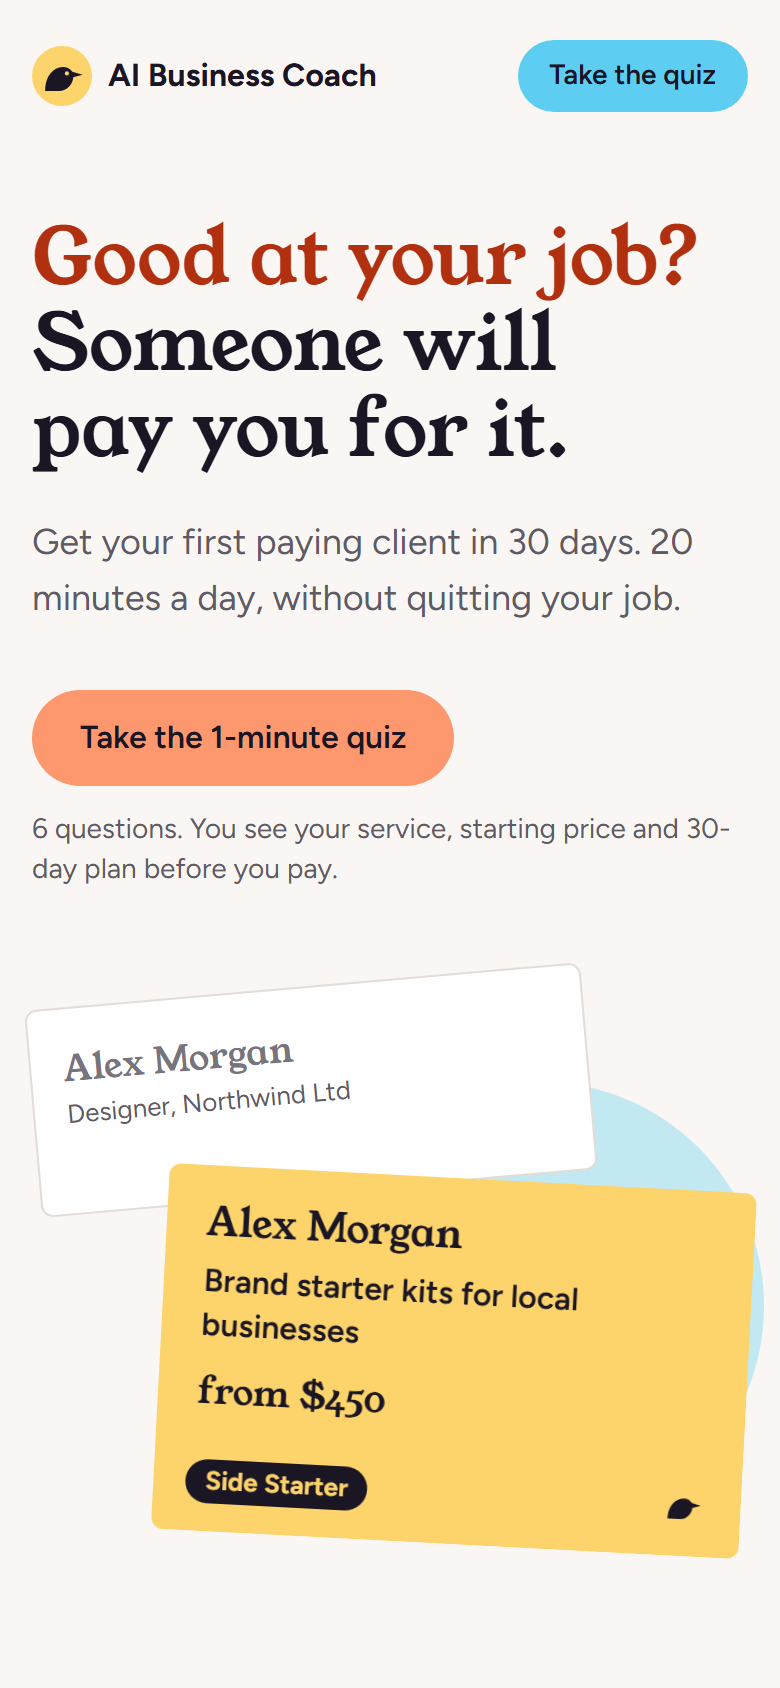
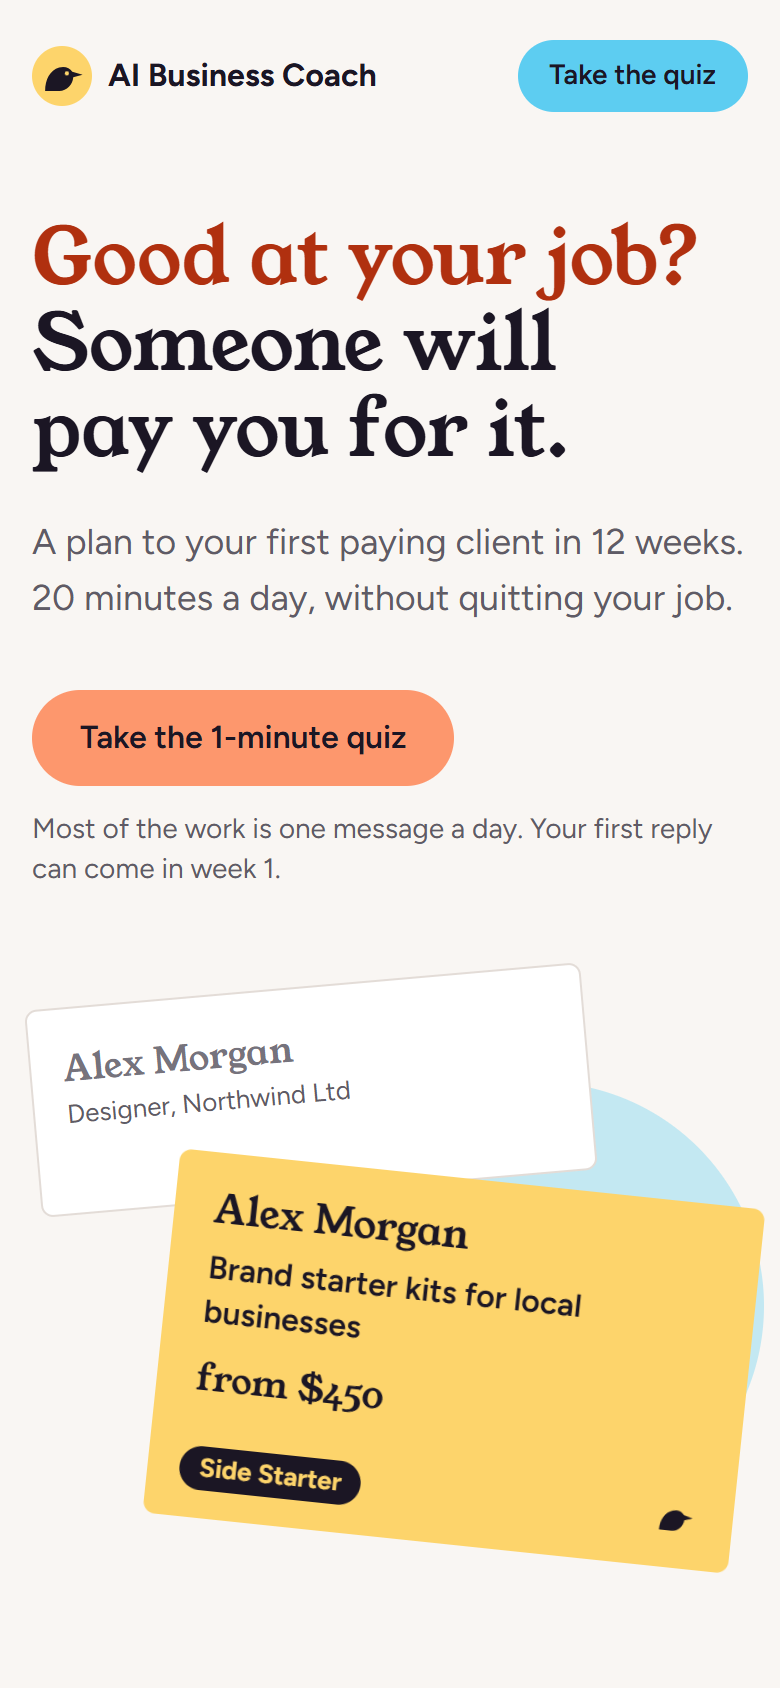
Rebuild README for the 12-week product and retake screenshots

diff --git a/README.md b/README.md
@@ -1,55 +1,68 @@
 # AI Business Coach
 
-An AI coach that takes someone who is good at their job to a first paying client of their own side service in 30 days, 20 minutes a day, without quitting.
+**Good at your job? Someone will pay you for it.**
+
+An AI coach that takes an employed professional from a skill they use at work to a first paying client of their own side service. It is a 12-week plan, built on 20 minutes a day and one message a day, without quitting your job.
 
 Built by Team 4 (Jandos, Temirlan) for the Zimran IT School capstone.
+
+<p align="center">
+  <img src="docs/screenshots/01-landing.png" width="220" alt="Landing page: Good at your job? Someone will pay you for it, with a business card for Alex Morgan, Side Starter" />
+  <img src="docs/screenshots/05-app-today.png" width="220" alt="Today screen: Client #1 card, the pipeline, and a reply from Daniel with a draft written by Hugin" />
+  <img src="docs/screenshots/06-people.png" width="220" alt="People tab: five contacts grouped by stage, from On your list to Replied" />
+</p>
 
 ## Live links
 
 - **Landing page:** https://ai-business-coach-blush.vercel.app
 - **Product (start with the quiz):** https://ai-business-coach-blush.vercel.app/quiz
-- **Demo mode:** https://ai-business-coach-blush.vercel.app/quiz?demo=1 adds a screen map to the quiz and day controls to the app, so you can see a week of progress in a minute.
+- **Demo mode:** https://ai-business-coach-blush.vercel.app/quiz?demo=1 adds a screen map to the quiz and demo controls to the app, so you can see a week of progress in a minute.
 
 ## What it does
 
-1. **Quiz (`/quiz`):** six questions about your skill, experience, goal, time and main blocker. You get a personal plan before you pay: a service to sell, a starting price, your first buyers and a four-week map.
-2. **Paywall and checkout:** three plans with 50% off the first period, a billing timeline, and an auto-renewal checkbox that is never pre-ticked. Checkout is simulated.
-3. **The app (`/app`):** one quest a day, sized to your time. Quests and real results earn XP, grow six stats and change your title, from Employee to Consultant. Each week ends with a boss: a real result such as a first reply or a first paying client.
-4. **Hugin, the coach:** a raven with a dry sense of humour. He drafts your messages and proposals, checks proof screenshots and answers questions in a chat.
+1. **Quiz (`/quiz`):** six questions about your skill, experience, goal, time and main blocker. You get a personal plan before you pay: a service to sell, a starting price, your first buyers and your milestones to a first client.
+2. **Paywall and checkout:** 4, 12 and 24-week plans with 50% off the first period, a billing timeline, and an auto-renewal checkbox that is never pre-ticked. The full renewal price is shown before Pay. Checkout is simulated.
+3. **The app (`/app`):**
+   - **Today:** one step a day, sized to a few minutes. On day 1 you write your offer and add five people. After that, each day is one message, one reply or one follow-up.
+   - **People:** your warm list, grouped by stage: listed, messaged, replied, call booked, paid.
+   - **Progress:** your title, milestones (first reply, first call, first proposal, first client), streak and nine short lessons that unlock when your real progress needs them.
+4. **Hugin, the coach:** a raven with a dry sense of humour. He writes the message for one named person, drafts your replies and answers questions. Titles and streaks follow real events such as a first reply or a first paid client, not tapping through screens.
 
 ## Screenshots
 
-| Landing | Personal plan | Paywall |
-| --- | --- | --- |
-| ![Landing page hero with the old work card and the new sunshine business card](docs/screenshots/01-landing.png) | ![Personal plan: your service and price on a business card, first buyers and the four weeks](docs/screenshots/02-plan.png) | ![Paywall with three plans, billing timeline and unticked renewal consent](docs/screenshots/03-paywall.png) |
-
-| Today, day 8 | Drafts from Hugin |
+| Plan | Paywall |
 | --- | --- |
-| ![Your card with service, price, title and level, then XP, six stats and today's quest](docs/screenshots/04-app-today.png) | ![Three outreach messages drafted by Hugin, each with a Copy button](docs/screenshots/05-hugin-drafts.png) |
+| ![Personal plan: first paying client by a date, your service and price on a business card, first buyers and four milestones](docs/screenshots/02-plan.png) | ![Paywall with three plans, billing timeline and an unticked renewal consent](docs/screenshots/03-paywall.png) |
+
+| Day 1 | Today | Progress |
+| --- | --- | --- |
+| ![Day 1: write your offer and add five people, each with a relation chip](docs/screenshots/04-app-day1.png) | ![Today: Client #1 card, the pipeline and a reply from Daniel with a draft from Hugin](docs/screenshots/05-app-today.png) | ![Progress: title Side Starter, milestones, streak and the course](docs/screenshots/07-progress.png) |
+
+Screenshots are 390x844 at 2x, taken from the app in demo mode.
 
 ## Tech stack
 
 - **Framework:** Next.js 16 (App Router) with React 19 and TypeScript
 - **Styling:** Tailwind CSS 4 with design tokens in `src/app/globals.css`, light and dark themes
 - **AI:** Google Gemini through the `@google/genai` SDK, called only from server route handlers
-- **Animation:** React `<ViewTransition>` for screen changes, growth notifications and sheets; turned off under reduced motion
-- **Tests:** Vitest, 66 tests for pricing, the game rules, quests, tools and Hugin's input handling
+- **Animation:** React `<ViewTransition>` for screen changes and sheets, turned off under reduced motion
+- **Tests:** Vitest, 149 tests for pricing, the game rules, the next-step logic, contacts, the lessons and Hugin's input handling
 - **Hosting:** Vercel
 
 ## How the Gemini parts work
 
 Three API routes call Gemini. The API key stays on the server and never reaches the browser.
 
-| Route | What it does | Model |
-| --- | --- | --- |
-| `POST /api/draft` | Writes three offer, outreach, follow-up or proposal drafts for today's quest, returned as JSON | `gemini-3.5-flash-lite` |
-| `POST /api/verify` | Checks whether a proof screenshot shows the claimed result (a reply, a booking, a payment) and answers in Hugin's voice | `gemini-3.6-flash` |
-| `POST /api/chat` | A streamed chat with Hugin | `gemini-3.5-flash-lite` |
+| Route | What it does | Main model | Backup |
+| --- | --- | --- | --- |
+| `POST /api/draft` | Writes drafts for the day's step (outreach, replies, follow-ups, proposals) and reviews your lesson decisions, returned as JSON | `gemini-3.5-flash-lite` | `gemini-3.6-flash` |
+| `POST /api/verify` | Checks whether a proof screenshot shows the claimed result (a reply, a booking, a payment) and answers in Hugin's voice | `gemini-3.6-flash` | `gemini-3.5-flash-lite` |
+| `POST /api/chat` | A streamed chat with Hugin | `gemini-3.5-flash-lite` | `gemini-3.6-flash` |
 
 - **One personality:** every call shares Hugin's system prompt in `src/lib/hugin.ts`. He is calm, uses no exclamation marks, never promises income, gives no legal, tax or medical advice, and never invents shared history with the person a message goes to.
-- **Privacy:** the browser sends only the user's service, price and offer. The warm list of names is never sent. Screenshots are checked and dropped: only the verdict is saved.
-- **Reliability:** if the main model is overloaded or returns nothing, the call retries on a backup model. If Gemini is down, Hugin says so in one line and the quest still works.
-- **Cost protection:** a per-visitor limit (for example 15 screenshot checks per 10 minutes) keeps a public link from using up the API quota.
+- **Privacy:** the browser sends only what a call needs, such as your service, price and the one person a message is for. The full list is never sent. Screenshots are checked and dropped: only the verdict is saved.
+- **Reliability:** if the main model is overloaded or returns nothing, the call retries on the backup model. If Gemini is down, Hugin says so in one line and the step still works.
+- **Cost protection:** a per-visitor limit on each route (15 screenshot checks, 30 drafts and 40 chat messages per window) keeps a public link from using up the API quota.
 
 ## What the MVP simulates, and why
 
@@ -58,7 +71,7 @@ Three API routes call Gemini. The API key stays on the server and never reaches 
 | Payments | Apple Pay, Google Pay and card buttons simulate a successful payment. No card details are collected. | The capstone tests the funnel and the product, not a payment provider. |
 | Email | The email is stored in the browser and never sent. | No email service is needed to show the flow. |
 | Accounts and data | Progress is saved in the browser's `localStorage`. There is no login or database. | Keeps the demo instant and private. A real launch would add accounts. |
-| Days | The day count follows the calendar. Missed days use a Streak Shield or become a recovery quest. Demo mode can move ahead of the calendar. | Lets the jury see weeks of progress in one session. |
+| Days | The day count follows the calendar. Missed days use a Streak Shield or become a recovery step. Demo mode can move ahead of the calendar. | Lets the jury see weeks of progress in one session. |
 
 ## Run it locally
 
@@ -84,6 +97,8 @@ Start the dev server and open http://localhost:3000:
 npm run dev
 ```
 
+Add `?demo=1` to `/quiz` to get the screen map and the demo controls (next day, miss a day, seed demo people, simulate a reply, unlock all lessons).
+
 If your antivirus scans HTTPS traffic (Avast does) and `npm` or Gemini calls fail with `unable to get local issuer certificate`, tell Node.js to use the Windows certificate store:
 
 ```powershell
@@ -103,7 +118,8 @@ npm run build
 ## Project structure
 
 - `src/app/page.tsx`: the landing page
-- `src/components/quiz/`: the 14-screen quiz, paywall, checkout and upsell
-- `src/components/coach/`: the app: status window, quests, bosses, Journey, Settings, Hugin's sheets
+- `src/components/quiz/`: the quiz, plan, paywall, checkout and upsell screens
+- `src/components/coach/`: the app: Today, People, Progress, lessons, Hugin's sheets and the demo panel
 - `src/app/api/`: the Gemini routes (`draft`, `verify`, `chat`) and a `health` check
-- `src/lib/`: plain TypeScript with no React: quiz data, pricing, the game engine, quests, tools, storage
+- `src/lib/`: plain TypeScript with no React: quiz data, pricing, the game rules, next-step logic, contacts, the nine lessons, storage
+- `docs/screenshots/`: the README images; `docs/redesign/`: before and after shots of the visual redesign
